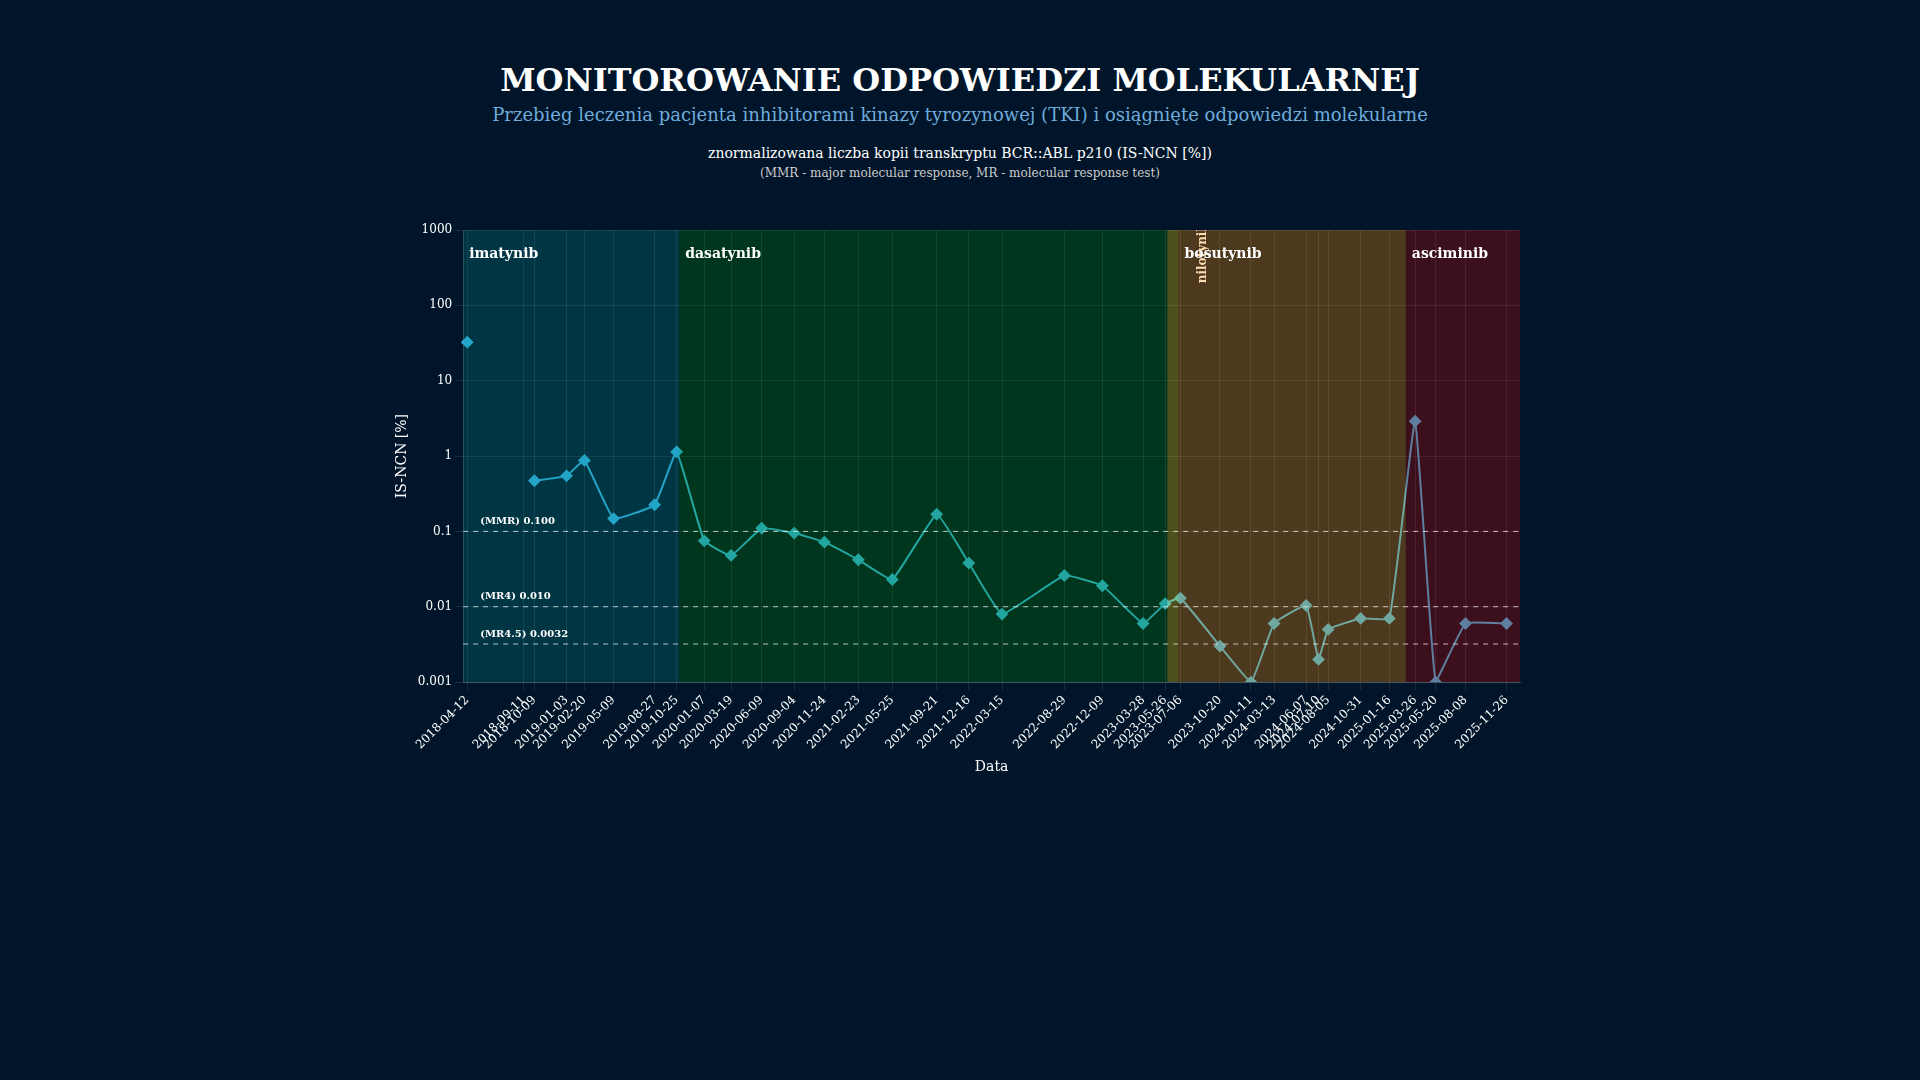
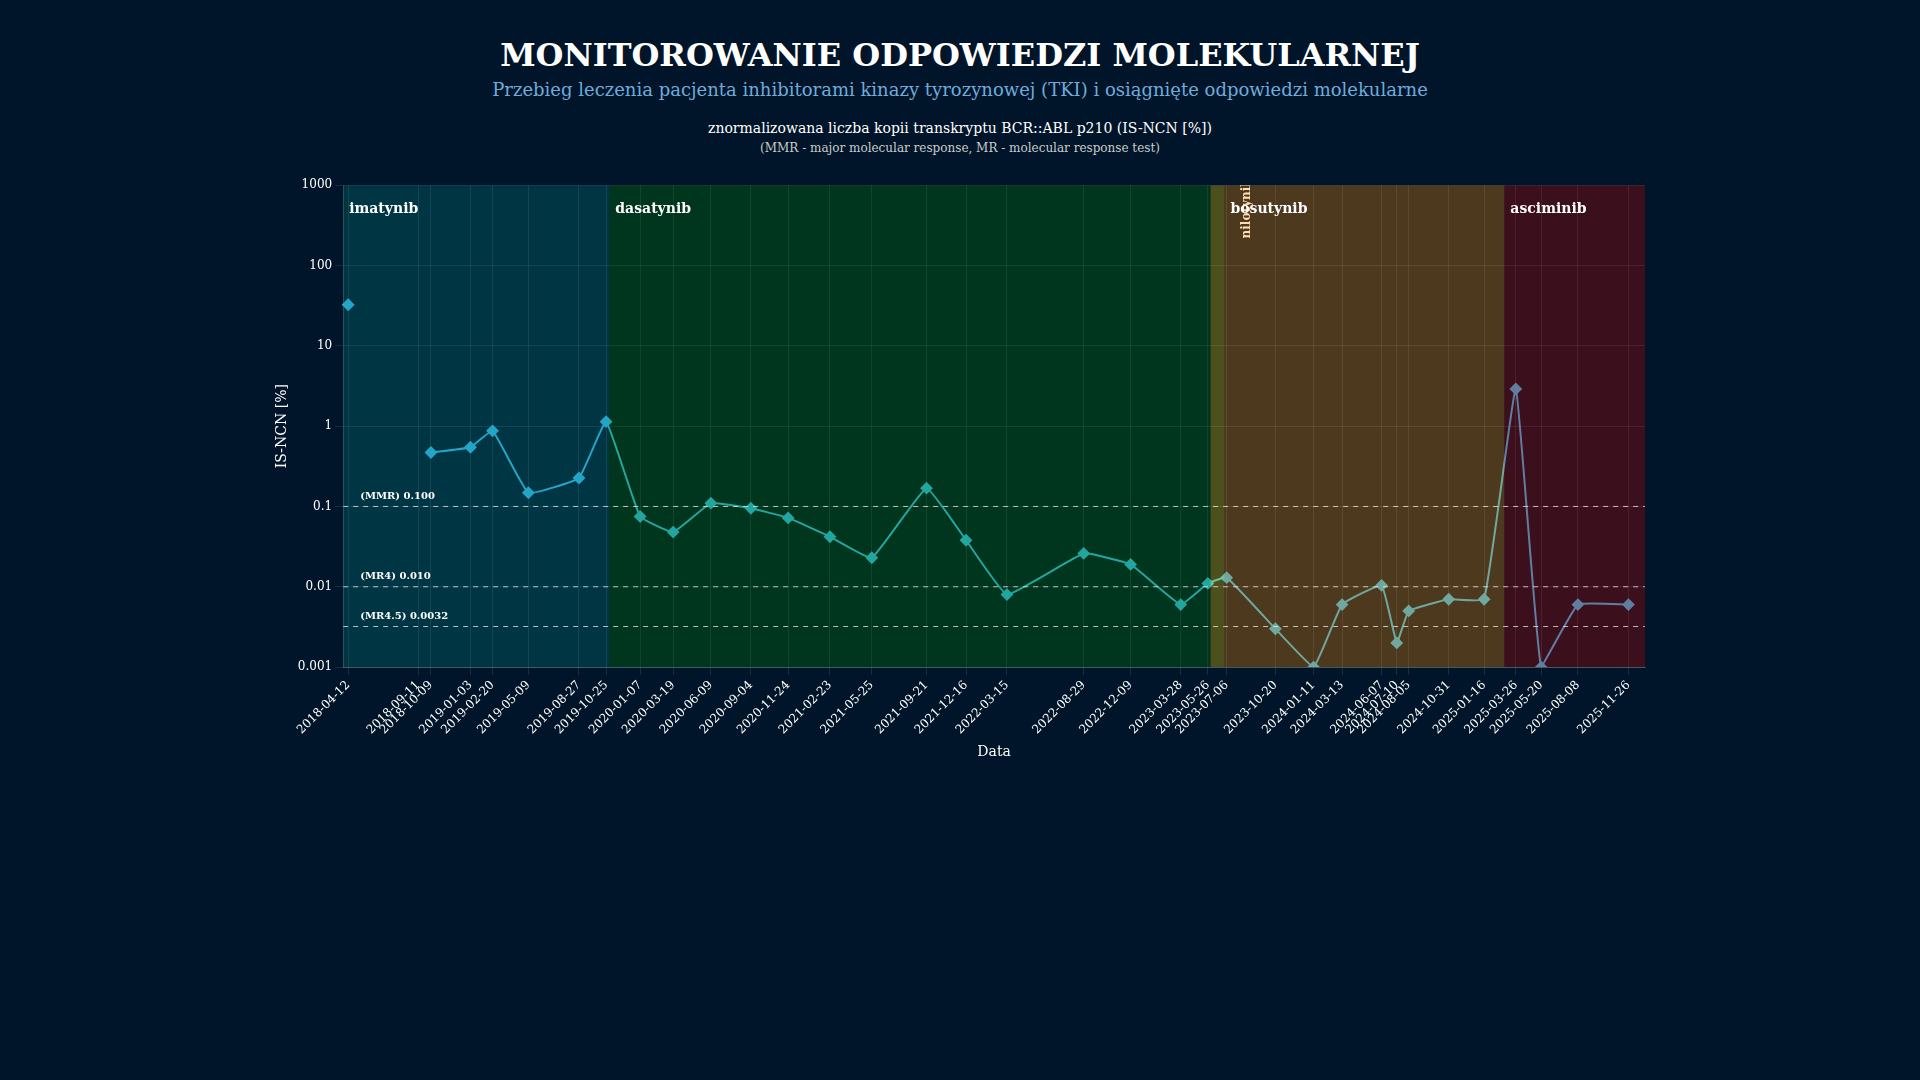
feat: generate CML treatment chart with minimized padding
- Reduce CSS padding on body and container elements
- Minimize Chart.js layout padding to maximize chart size
- Regenerate `final_chart.png` with tighter layout
- Maintain strict data matching and dark theme infographic style

Changed region(s): [[0.1562, 0.0306, 0.875, 0.7028]]

diff --git a/index.html b/index.html
@@ -14,7 +14,7 @@
         body {
             font-family: 'Times New Roman', Times, serif;
             margin: 0;
-            padding: 20px;
+            padding: 10px;
             background-color: #001529; /* Deep Navy Blue */
             color: white;
             display: flex;
@@ -22,10 +22,10 @@
             align-items: center;
         }
         .container {
-            width: 90%;
-            max-width: 1200px;
+            width: 95%;
+            max-width: 1400px;
             background-color: #001529;
-            padding: 20px;
+            padding: 5px;
             box-sizing: border-box;
         }
         h1 {

diff --git a/script.js b/script.js
@@ -218,10 +218,10 @@ new Chart(ctx, {
         maintainAspectRatio: false,
         layout: {
             padding: {
-                top: 30,
-                right: 20,
-                bottom: 20,
-                left: 10
+                top: 10,
+                right: 10,
+                bottom: 10,
+                left: 5
             }
         },
         scales: {
